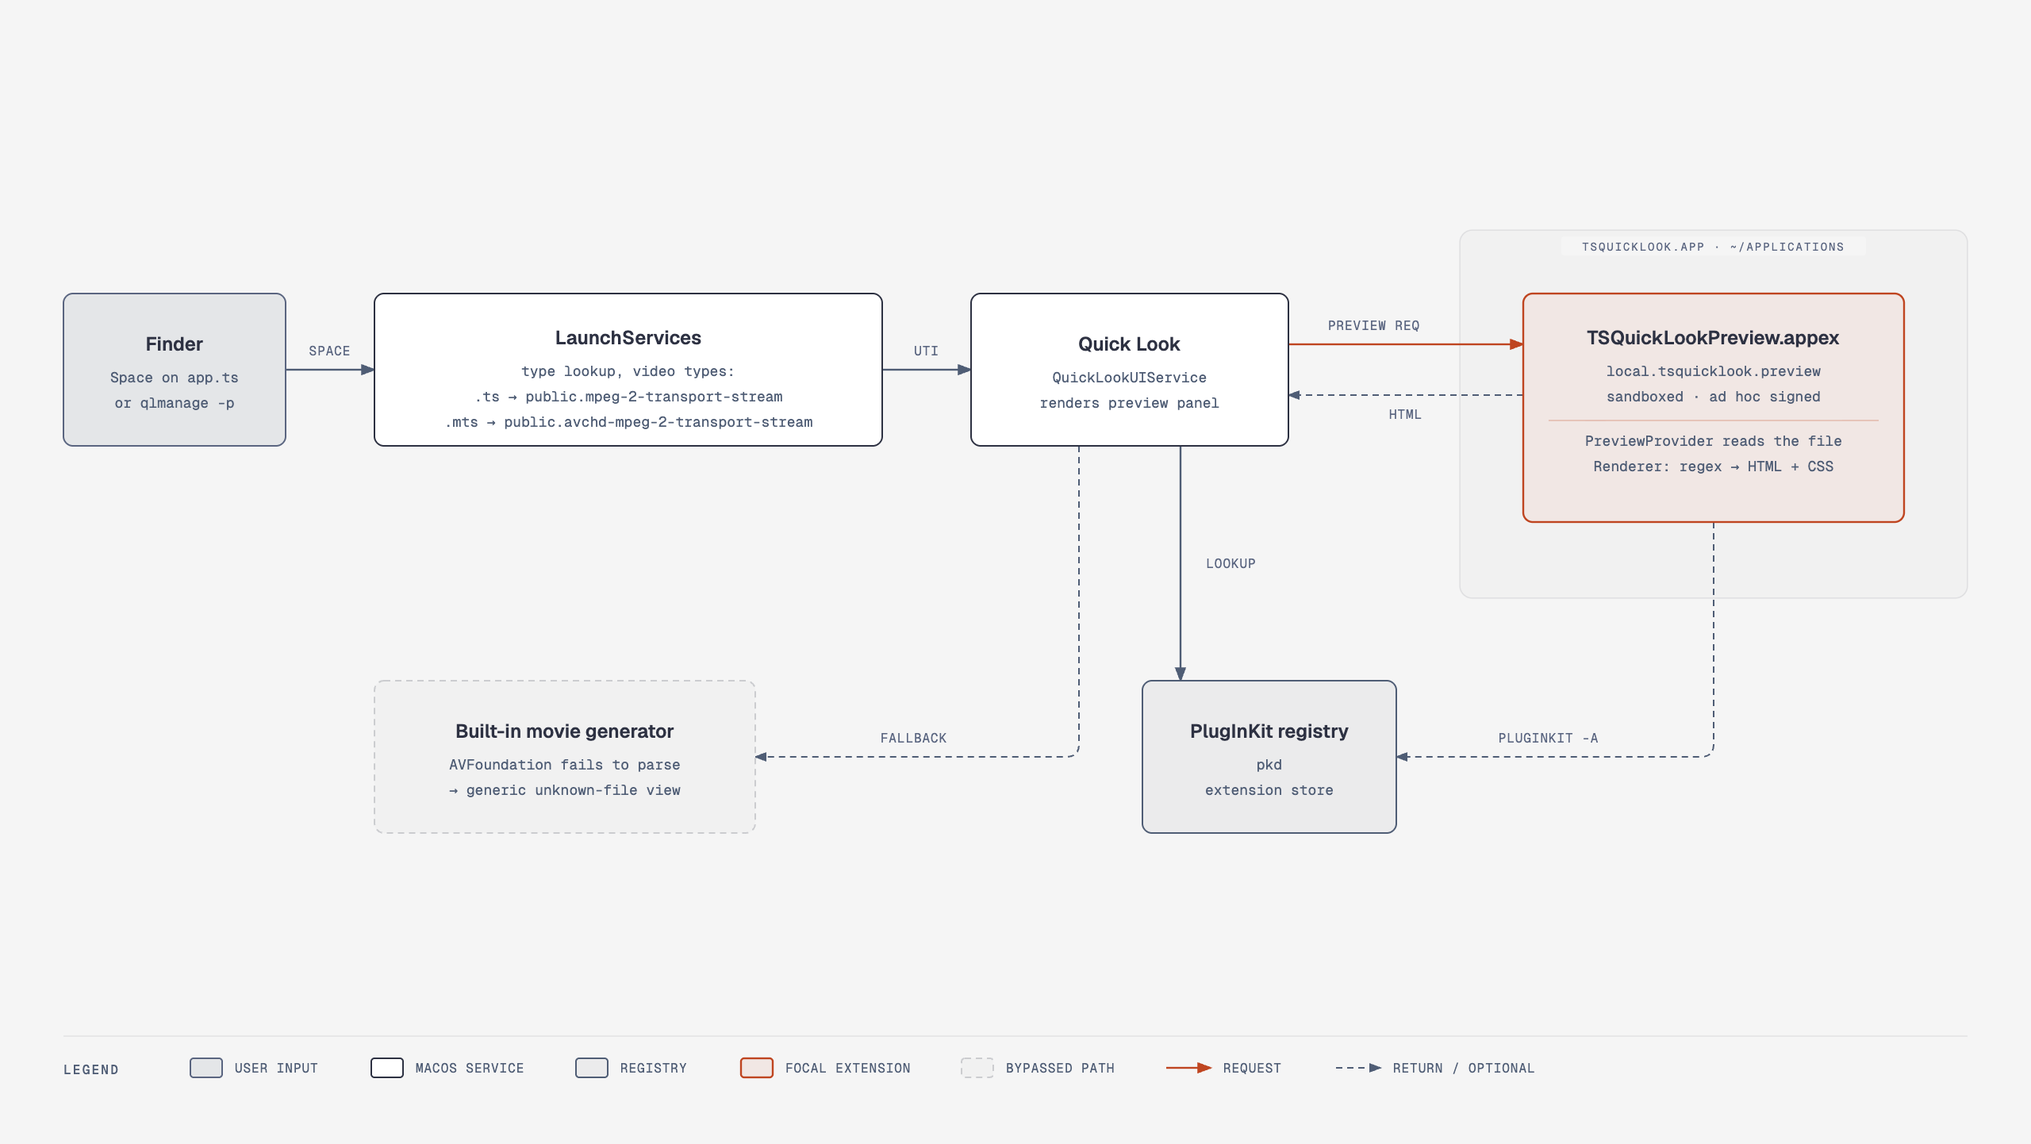
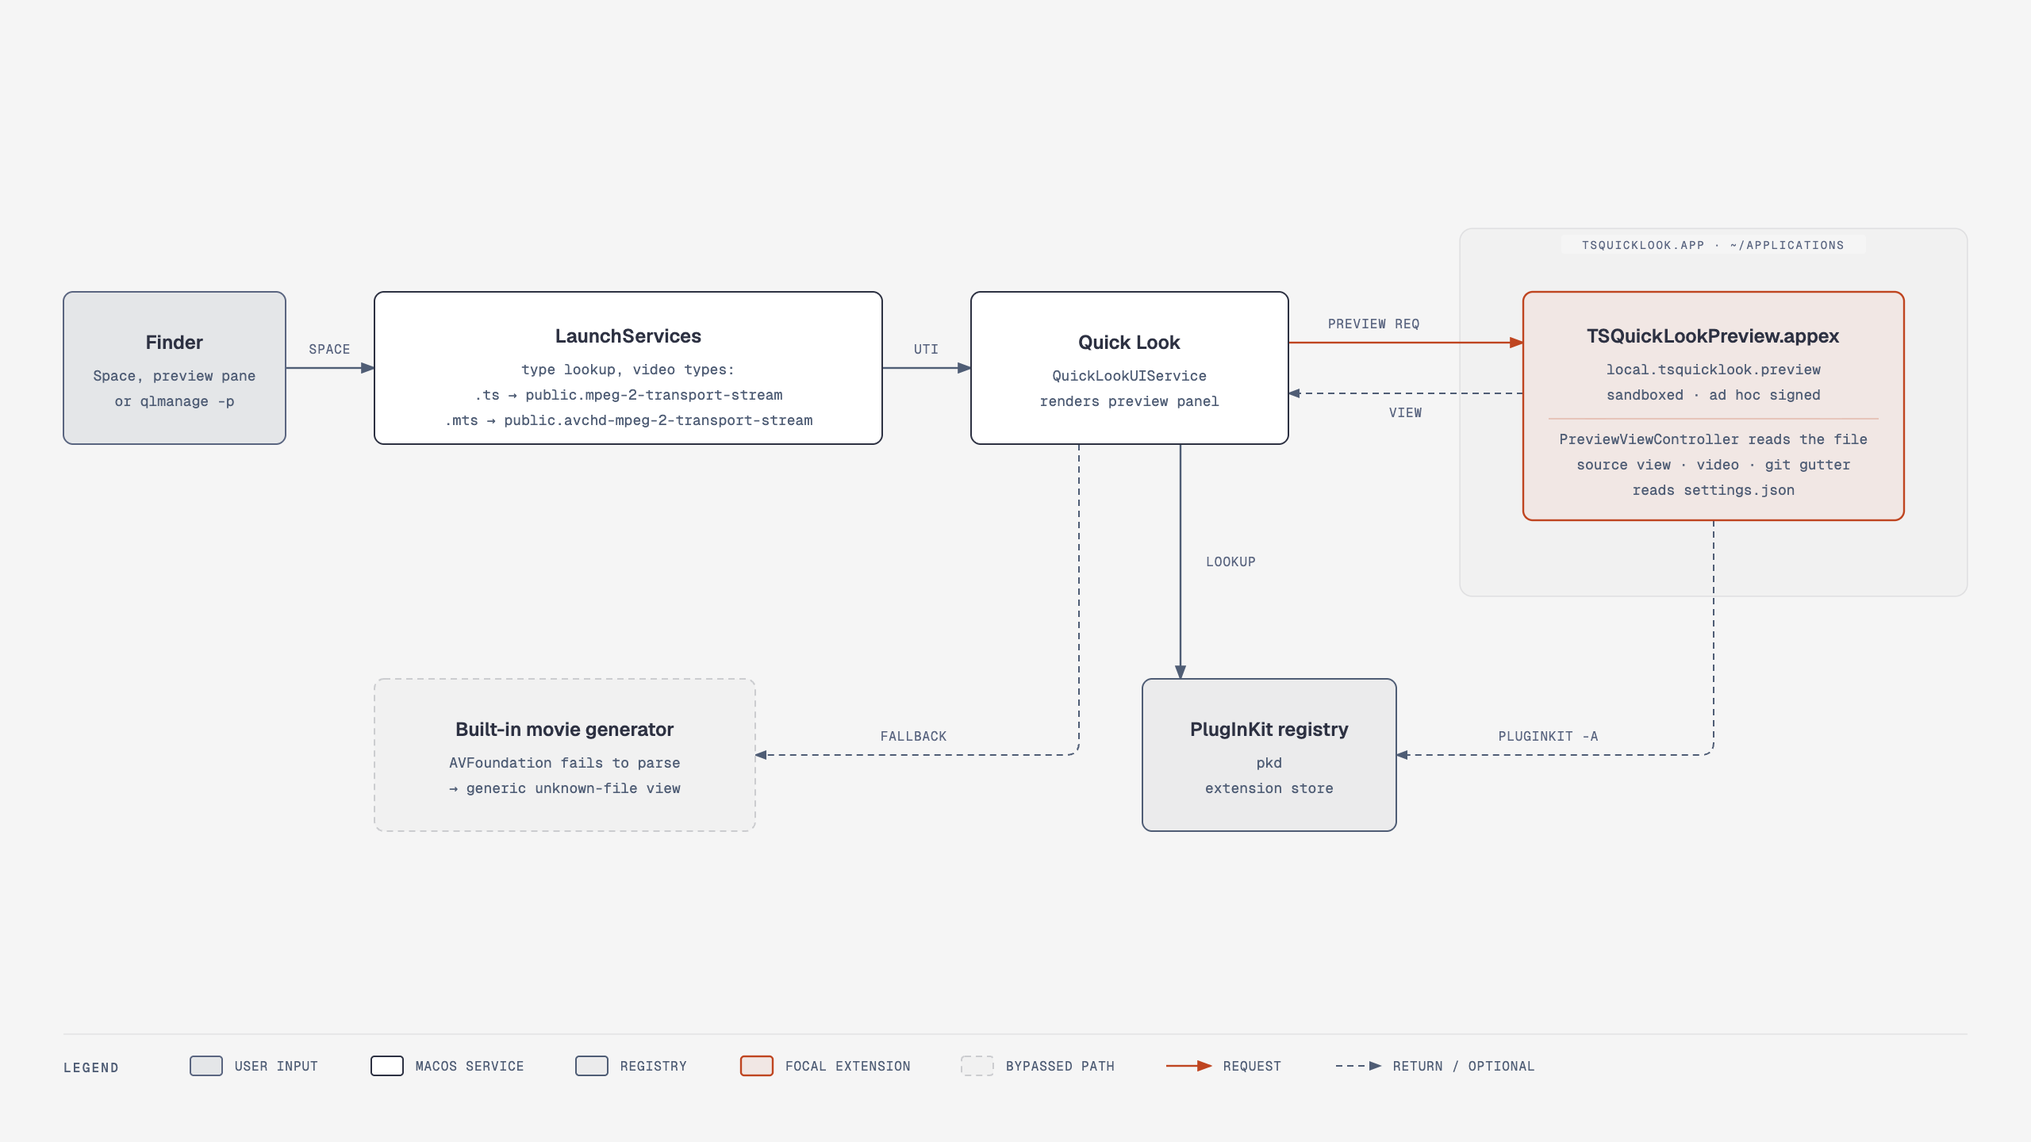
docs: describe preview pane, settings, video, copy and git gutter (#1)

diff --git a/docs/architecture.html b/docs/architecture.html
@@ -74,7 +74,7 @@
     <div class="diagram-container">
       <svg viewBox="0 0 1280 720" xmlns="http://www.w3.org/2000/svg" role="img" aria-labelledby="architecture-title architecture-desc">
         <title id="architecture-title">How TSQuickLook previews a .ts file</title>
-        <desc id="architecture-desc">Architecture of how Quick Look resolves a .ts file to a video type, finds no claimant, and instead calls the TSQuickLook preview extension, which returns syntax-highlighted HTML.</desc>
+        <desc id="architecture-desc">Architecture of how Quick Look resolves a .ts file to a video type, finds no claimant, and instead calls the TSQuickLook preview extension, which returns a native view with syntax-highlighted source or a video player.</desc>
         <defs>
           <marker id="arrow" markerWidth="8" markerHeight="6" refX="7" refY="3" orient="auto"><polygon points="0 0, 8 3, 0 6" fill="#4f5d75"/></marker>
           <marker id="arrow-accent" markerWidth="8" markerHeight="6" refX="7" refY="3" orient="auto"><polygon points="0 0, 8 3, 0 6" fill="#bf4520"/></marker>
@@ -95,14 +95,14 @@
         <line x1="180" y1="232" x2="236" y2="232" fill="none" stroke="#4f5d75" stroke-width="1.2" marker-end="url(#arrow)"/><rect x="190" y="214" width="36" height="12" rx="2" fill="#f5f5f5"/><text x="208" y="223" fill="#5a6580" font-size="8" font-family="'Geist Mono', ui-monospace, monospace" letter-spacing="0.06em" text-anchor="middle">SPACE</text>
         <line x1="556" y1="232" x2="612" y2="232" fill="none" stroke="#4f5d75" stroke-width="1.2" marker-end="url(#arrow)"/><rect x="570" y="214" width="28" height="12" rx="2" fill="#f5f5f5"/><text x="584" y="223" fill="#5a6580" font-size="8" font-family="'Geist Mono', ui-monospace, monospace" letter-spacing="0.06em" text-anchor="middle">UTI</text>
         <line x1="812" y1="216" x2="960" y2="216" fill="none" stroke="#bf4520" stroke-width="1.2" marker-end="url(#arrow-accent)"/><rect x="830" y="198" width="72" height="12" rx="2" fill="#f5f5f5"/><text x="866" y="207" fill="#5a6580" font-size="8" font-family="'Geist Mono', ui-monospace, monospace" letter-spacing="0.06em" text-anchor="middle">PREVIEW REQ</text>
-        <line x1="960" y1="248" x2="812" y2="248" fill="none" stroke="#4f5d75" stroke-width="1" stroke-dasharray="4,3" marker-end="url(#arrow)"/><rect x="866" y="254" width="40" height="12" rx="2" fill="#f5f5f5"/><text x="886" y="263" fill="#5a6580" font-size="8" font-family="'Geist Mono', ui-monospace, monospace" letter-spacing="0.06em" text-anchor="middle">HTML</text>
+        <line x1="960" y1="248" x2="812" y2="248" fill="none" stroke="#4f5d75" stroke-width="1" stroke-dasharray="4,3" marker-end="url(#arrow)"/><rect x="866" y="254" width="40" height="12" rx="2" fill="#f5f5f5"/><text x="886" y="263" fill="#5a6580" font-size="8" font-family="'Geist Mono', ui-monospace, monospace" letter-spacing="0.06em" text-anchor="middle">VIEW</text>
         <line x1="744" y1="280" x2="744" y2="428" fill="none" stroke="#4f5d75" stroke-width="1.2" marker-end="url(#arrow)"/><rect x="754" y="348" width="44" height="12" rx="2" fill="#f5f5f5"/><text x="776" y="357" fill="#5a6580" font-size="8" font-family="'Geist Mono', ui-monospace, monospace" letter-spacing="0.06em" text-anchor="middle">LOOKUP</text>
         <path d="M1080,328 V468 Q1080,476 1072,476 H880" fill="none" stroke="#4f5d75" stroke-width="1" stroke-dasharray="4,3" marker-end="url(#arrow)"/><rect x="936" y="458" width="80" height="12" rx="2" fill="#f5f5f5"/><text x="976" y="467" fill="#5a6580" font-size="8" font-family="'Geist Mono', ui-monospace, monospace" letter-spacing="0.06em" text-anchor="middle">PLUGINKIT -A</text>
         <path d="M680,280 V468 Q680,476 672,476 H476" fill="none" stroke="#4f5d75" stroke-width="1" stroke-dasharray="4,3" marker-end="url(#arrow)"/><rect x="548" y="458" width="56" height="12" rx="2" fill="#f5f5f5"/><text x="576" y="467" fill="#5a6580" font-size="8" font-family="'Geist Mono', ui-monospace, monospace" letter-spacing="0.06em" text-anchor="middle">FALLBACK</text>
-        <rect x="40" y="184" width="140" height="96" rx="6" fill="#f5f5f5"/><rect x="40" y="184" width="140" height="96" rx="6" fill="rgba(79,93,117,0.10)" stroke="#5a6580" stroke-width="1"/><text x="110" y="220" fill="#2d3142" font-size="12" font-family="'Geist', system-ui, sans-serif" font-weight="600" text-anchor="middle">Finder</text><text x="110" y="240" fill="#4f5d75" font-size="9" font-family="'Geist Mono', ui-monospace, monospace" text-anchor="middle">Space on app.ts</text><text x="110" y="256" fill="#4f5d75" font-size="9" font-family="'Geist Mono', ui-monospace, monospace" text-anchor="middle">or qlmanage -p</text>
+        <rect x="40" y="184" width="140" height="96" rx="6" fill="#f5f5f5"/><rect x="40" y="184" width="140" height="96" rx="6" fill="rgba(79,93,117,0.10)" stroke="#5a6580" stroke-width="1"/><text x="110" y="220" fill="#2d3142" font-size="12" font-family="'Geist', system-ui, sans-serif" font-weight="600" text-anchor="middle">Finder</text><text x="110" y="240" fill="#4f5d75" font-size="9" font-family="'Geist Mono', ui-monospace, monospace" text-anchor="middle">Space, preview pane</text><text x="110" y="256" fill="#4f5d75" font-size="9" font-family="'Geist Mono', ui-monospace, monospace" text-anchor="middle">or qlmanage -p</text>
         <rect x="236" y="184" width="320" height="96" rx="6" fill="#f5f5f5"/><rect x="236" y="184" width="320" height="96" rx="6" fill="#ffffff" stroke="#2d3142" stroke-width="1"/><text x="396" y="216" fill="#2d3142" font-size="12" font-family="'Geist', system-ui, sans-serif" font-weight="600" text-anchor="middle">LaunchServices</text><text x="396" y="236" fill="#4f5d75" font-size="9" font-family="'Geist Mono', ui-monospace, monospace" text-anchor="middle">type lookup, video types:</text><text x="396" y="252" fill="#4f5d75" font-size="9" font-family="'Geist Mono', ui-monospace, monospace" text-anchor="middle">.ts → public.mpeg-2-transport-stream</text><text x="396" y="268" fill="#4f5d75" font-size="9" font-family="'Geist Mono', ui-monospace, monospace" text-anchor="middle">.mts → public.avchd-mpeg-2-transport-stream</text>
         <rect x="612" y="184" width="200" height="96" rx="6" fill="#f5f5f5"/><rect x="612" y="184" width="200" height="96" rx="6" fill="#ffffff" stroke="#2d3142" stroke-width="1"/><text x="712" y="220" fill="#2d3142" font-size="12" font-family="'Geist', system-ui, sans-serif" font-weight="600" text-anchor="middle">Quick Look</text><text x="712" y="240" fill="#4f5d75" font-size="9" font-family="'Geist Mono', ui-monospace, monospace" text-anchor="middle">QuickLookUIService</text><text x="712" y="256" fill="#4f5d75" font-size="9" font-family="'Geist Mono', ui-monospace, monospace" text-anchor="middle">renders preview panel</text>
-        <rect x="960" y="184" width="240" height="144" rx="6" fill="#f5f5f5"/><rect x="960" y="184" width="240" height="144" rx="6" fill="rgba(191,69,32,0.08)" stroke="#bf4520" stroke-width="1.2"/><text x="1080" y="216" fill="#2d3142" font-size="12" font-family="'Geist', system-ui, sans-serif" font-weight="600" text-anchor="middle">TSQuickLookPreview.appex</text><text x="1080" y="236" fill="#4f5d75" font-size="9" font-family="'Geist Mono', ui-monospace, monospace" text-anchor="middle">local.tsquicklook.preview</text><text x="1080" y="252" fill="#4f5d75" font-size="9" font-family="'Geist Mono', ui-monospace, monospace" text-anchor="middle">sandboxed · ad hoc signed</text><text x="1080" y="280" fill="#4f5d75" font-size="9" font-family="'Geist Mono', ui-monospace, monospace" text-anchor="middle">PreviewProvider reads the file</text><text x="1080" y="296" fill="#4f5d75" font-size="9" font-family="'Geist Mono', ui-monospace, monospace" text-anchor="middle">Renderer: regex → HTML + CSS</text><line x1="976" y1="264" x2="1184" y2="264" stroke="rgba(191,69,32,0.30)" stroke-width="0.8"/>
+        <rect x="960" y="184" width="240" height="144" rx="6" fill="#f5f5f5"/><rect x="960" y="184" width="240" height="144" rx="6" fill="rgba(191,69,32,0.08)" stroke="#bf4520" stroke-width="1.2"/><text x="1080" y="216" fill="#2d3142" font-size="12" font-family="'Geist', system-ui, sans-serif" font-weight="600" text-anchor="middle">TSQuickLookPreview.appex</text><text x="1080" y="236" fill="#4f5d75" font-size="9" font-family="'Geist Mono', ui-monospace, monospace" text-anchor="middle">local.tsquicklook.preview</text><text x="1080" y="252" fill="#4f5d75" font-size="9" font-family="'Geist Mono', ui-monospace, monospace" text-anchor="middle">sandboxed · ad hoc signed</text><text x="1080" y="280" fill="#4f5d75" font-size="9" font-family="'Geist Mono', ui-monospace, monospace" text-anchor="middle">PreviewViewController reads the file</text><text x="1080" y="296" fill="#4f5d75" font-size="9" font-family="'Geist Mono', ui-monospace, monospace" text-anchor="middle">source view · video · git gutter</text><text x="1080" y="312" fill="#4f5d75" font-size="9" font-family="'Geist Mono', ui-monospace, monospace" text-anchor="middle">reads settings.json</text><line x1="976" y1="264" x2="1184" y2="264" stroke="rgba(191,69,32,0.30)" stroke-width="0.8"/>
         <rect x="720" y="428" width="160" height="96" rx="6" fill="#f5f5f5"/><rect x="720" y="428" width="160" height="96" rx="6" fill="rgba(45,49,66,0.05)" stroke="#4f5d75" stroke-width="1"/><text x="800" y="464" fill="#2d3142" font-size="12" font-family="'Geist', system-ui, sans-serif" font-weight="600" text-anchor="middle">PlugInKit registry</text><text x="800" y="484" fill="#4f5d75" font-size="9" font-family="'Geist Mono', ui-monospace, monospace" text-anchor="middle">pkd</text><text x="800" y="500" fill="#4f5d75" font-size="9" font-family="'Geist Mono', ui-monospace, monospace" text-anchor="middle">extension store</text>
         <rect x="236" y="428" width="240" height="96" rx="6" fill="#f5f5f5"/><rect x="236" y="428" width="240" height="96" rx="6" fill="rgba(45,49,66,0.02)" stroke="rgba(45,49,66,0.20)" stroke-width="1" stroke-dasharray="4,3"/><text x="356" y="464" fill="#2d3142" font-size="12" font-family="'Geist', system-ui, sans-serif" font-weight="600" text-anchor="middle">Built-in movie generator</text><text x="356" y="484" fill="#4f5d75" font-size="9" font-family="'Geist Mono', ui-monospace, monospace" text-anchor="middle">AVFoundation fails to parse</text><text x="356" y="500" fill="#4f5d75" font-size="9" font-family="'Geist Mono', ui-monospace, monospace" text-anchor="middle">→ generic unknown-file view</text>
         <line x1="40" y1="652" x2="1240" y2="652" stroke="rgba(45,49,66,0.10)" stroke-width="0.8"/><text x="40" y="676" fill="#4f5d75" font-size="8" font-family="'Geist Mono', ui-monospace, monospace" font-weight="500" letter-spacing="0.14em" text-anchor="start">LEGEND</text><rect x="120" y="666" width="20" height="12" rx="2" fill="rgba(79,93,117,0.10)" stroke="#5a6580" stroke-width="1"/><text x="148" y="675" fill="#4f5d75" font-size="8" font-family="'Geist Mono', ui-monospace, monospace" letter-spacing="0.06em" text-anchor="start">USER INPUT</text><rect x="234" y="666" width="20" height="12" rx="2" fill="#ffffff" stroke="#2d3142" stroke-width="1"/><text x="262" y="675" fill="#4f5d75" font-size="8" font-family="'Geist Mono', ui-monospace, monospace" letter-spacing="0.06em" text-anchor="start">MACOS SERVICE</text><rect x="363" y="666" width="20" height="12" rx="2" fill="rgba(45,49,66,0.05)" stroke="#4f5d75" stroke-width="1"/><text x="391" y="675" fill="#4f5d75" font-size="8" font-family="'Geist Mono', ui-monospace, monospace" letter-spacing="0.06em" text-anchor="start">REGISTRY</text><rect x="467" y="666" width="20" height="12" rx="2" fill="rgba(191,69,32,0.08)" stroke="#bf4520" stroke-width="1.2"/><text x="495" y="675" fill="#4f5d75" font-size="8" font-family="'Geist Mono', ui-monospace, monospace" letter-spacing="0.06em" text-anchor="start">FOCAL EXTENSION</text><rect x="606" y="666" width="20" height="12" rx="2" fill="rgba(45,49,66,0.02)" stroke="rgba(45,49,66,0.20)" stroke-width="1" stroke-dasharray="4,3"/><text x="634" y="675" fill="#4f5d75" font-size="8" font-family="'Geist Mono', ui-monospace, monospace" letter-spacing="0.06em" text-anchor="start">BYPASSED PATH</text><line x1="735" y1="672" x2="763" y2="672" stroke="#bf4520" stroke-width="1.2" marker-end="url(#arrow-accent)"/><text x="771" y="675" fill="#4f5d75" font-size="8" font-family="'Geist Mono', ui-monospace, monospace" letter-spacing="0.06em" text-anchor="start">REQUEST</text><line x1="842" y1="672" x2="870" y2="672" stroke="#4f5d75" stroke-width="1" stroke-dasharray="4,3" marker-end="url(#arrow)"/><text x="878" y="675" fill="#4f5d75" font-size="8" font-family="'Geist Mono', ui-monospace, monospace" letter-spacing="0.06em" text-anchor="start">RETURN / OPTIONAL</text>

diff --git a/README.md b/README.md
@@ -1,12 +1,21 @@
 # TSQuickLook
 
-A small macOS Quick Look extension that previews `.ts` and `.mts` TypeScript files as syntax-highlighted source.
+A small macOS Quick Look extension that previews `.ts` and `.mts` TypeScript files as syntax-highlighted source, in the Quick Look panel and in Finder's preview pane.
 
 ## Why
 
 macOS assigns the `.ts` extension to MPEG-2 transport stream video (`public.mpeg-2-transport-stream`) and `.mts` to AVCHD video (`public.avchd-mpeg-2-transport-stream`). Quick Look therefore treats TypeScript files as broken movies and shows the generic file preview. Source-code previewers such as Syntax Highlight do not claim those two types, so they are never asked.
 
-TSQuickLook claims both types and renders the file as text.
+TSQuickLook claims both types. A file that holds text is shown as source; a file that is a real transport stream plays as video.
+
+## Features
+
+- Highlighted source with line numbers. Long lines wrap to the width of the preview.
+- Works in Finder's preview pane (View > Show Preview) as well as the Quick Look panel.
+- Copy button above the source. It puts the file's text on the clipboard.
+- Git change bars beside the line numbers: green for added lines, orange for modified lines, a red marker where lines were removed. A file with uncommitted changes is compared with `HEAD`; a clean file shows the lines its last commit touched. The bar above the source shows the summary.
+- Video player with inline controls for real MPEG transport streams.
+- Settings app for appearance, font, preview size and the list of file extensions.
 
 ## Requirements
 
@@ -37,6 +46,22 @@ Try it from the terminal:
 qlmanage -p examples/sample.ts
 ```
 
+## Settings
+
+Open `~/Applications/TSQuickLook.app`. The window has five sections:
+
+| Section | What it sets |
+|---|---|
+| Extension | Shows whether the extension is registered; **Re-register** registers it again |
+| Appearance | Auto, light or dark |
+| Font | Font and font size |
+| Preview size | Fit to content, or a fixed width and height |
+| File extensions | Which extensions the preview claims: `.ts`, `.mts`, `.cts`, `.tsx`, `.js`, `.mjs`, `.cjs`, `.jsx` or your own |
+
+Appearance, font and size take effect on the next preview. A change to the extension list needs **Apply**: it rewrites `QLSupportedContentTypes` in the installed extension, signs it again and registers it. An extension that macOS has no content type for is skipped and named in the result.
+
+Settings are stored in `~/Library/Application Support/TSQuickLook/settings.json`. `TSQuickLook --apply` applies the saved extension list without opening a window; the install script runs it, so a reinstall keeps your selection.
+
 ## Uninstall
 
 ```sh
@@ -49,20 +74,25 @@ Without `mise`: `sh scripts/uninstall.sh`.
 
 ![Architecture](docs/architecture.png)
 
-- `TSQuickLook.app` is an empty container app. macOS only loads extensions that live inside an app bundle.
-- `TSQuickLookPreview.appex` is a sandboxed Quick Look preview extension. Its `Info.plist` lists the two video types under `QLSupportedContentTypes`.
-- `PreviewProvider` reads the file and returns an HTML reply.
-- `Renderer` tokenizes the source with one regular expression and wraps tokens in `<span>` elements. Colours come from CSS and follow light or dark appearance. No JavaScript runs.
+- `TSQuickLook.app` is the container app and the settings window. macOS only loads extensions that live inside an app bundle.
+- `TSQuickLookPreview.appex` is a sandboxed, view-based Quick Look preview extension. Its `Info.plist` lists the claimed types under `QLSupportedContentTypes`.
+- `PreviewViewController` reads the file and decides what to show: source, video or a notice for other binary data.
+- `Renderer` tokenizes the source with one regular expression and builds an attributed string for a native text view. No HTML or JavaScript is involved.
+- `TransportStream` checks for MPEG sync bytes at 188, 192 or 204 byte intervals. A match plays in an `AVPlayerView`.
+- `GitRepository`, `GitObjectStore` and `LineDiff` read `.git` directly (refs, index, loose and packed objects) and diff in-process. The sandbox does not let the extension start `git`.
+- The sandbox has read-only access to the file system. The extension needs it to read the settings file and the `.git` directory, which lie outside the previewed file.
 
 The diagram source is `docs/architecture.html`.
 
 ## Limitations
 
-- Real video `.ts` and `.mts` files no longer get the built-in movie preview while the extension is installed. They show a one-line notice instead.
-- The highlighter is a tokenizer, not a parser. Regular-expression literals are not recognized, and JSX is not handled (`.tsx` is a different type and is not claimed).
+- A `.ts` or `.mts` file that is neither text nor a transport stream shows a one-line notice.
+- The highlighter is a tokenizer, not a parser. Regular-expression literals are not recognized, and JSX in `.tsx` and `.jsx` files is coloured as plain TypeScript.
 - Files larger than 2 MB are cut off at 2 MB.
+- Git change bars are skipped for files larger than 4 MB. The search for a clean file's last commit stops after 1.5 seconds; the summary then shows "No uncommitted changes".
+- In a preview narrower than 220 points, which includes Finder's preview pane at its default width, the summary text is hidden. The change bars stay.
 - The build is signed ad hoc for the machine that built it. It is not notarized and is not meant to be distributed as a binary.
-- Thumbnails and Spotlight are not covered, only the Quick Look preview.
+- Thumbnails and Spotlight are not covered.
 
 ## Troubleshooting
 
@@ -74,11 +104,12 @@ The diagram source is `docs/architecture.html`.
 
 | Path | Purpose |
 |---|---|
-| `Sources/Extension/` | `PreviewProvider.swift`, `Renderer.swift` |
-| `Sources/App/main.c` | Container app entry point |
+| `Sources/Extension/` | Preview extension: view controller, highlighter, toolbar, gutter, video, git reader |
+| `Sources/App/` | Settings app and extension registration |
+| `Sources/Shared/` | Settings model used by both |
 | `Resources/` | `Info.plist` files and the extension entitlements |
 | `scripts/` | `build.sh`, `install.sh`, `uninstall.sh` |
 | `examples/sample.ts` | Sample file for a manual check |
-| `docs/` | Architecture diagram |
+| `docs/` | Architecture diagram, preview pane notes |
 
 See [CHANGELOG.md](CHANGELOG.md) for release notes.

diff --git a/CHANGELOG.md b/CHANGELOG.md
@@ -19,6 +19,7 @@ All notable changes to this project are documented here. The format follows [Kee
 - The extension is now view-based (`QLIsDataBasedPreview` false, principal class `TSQLPreviewViewController`): Finder's preview pane shows the highlighted source instead of the file icon. The source is drawn in a native text view; no HTML is generated.
 - Long lines wrap to the width of the preview, and the margins shrink in narrow panes.
 - The extension reads `~/Library/Application Support/TSQuickLook/settings.json` (appearance, font, font size, preview size) on every preview. Its sandbox now has read-only access to the file system for that.
+- README and the architecture diagram describe the view-based extension, the settings app, the video player, the copy button and the git gutter.
 
 ### Removed
 
